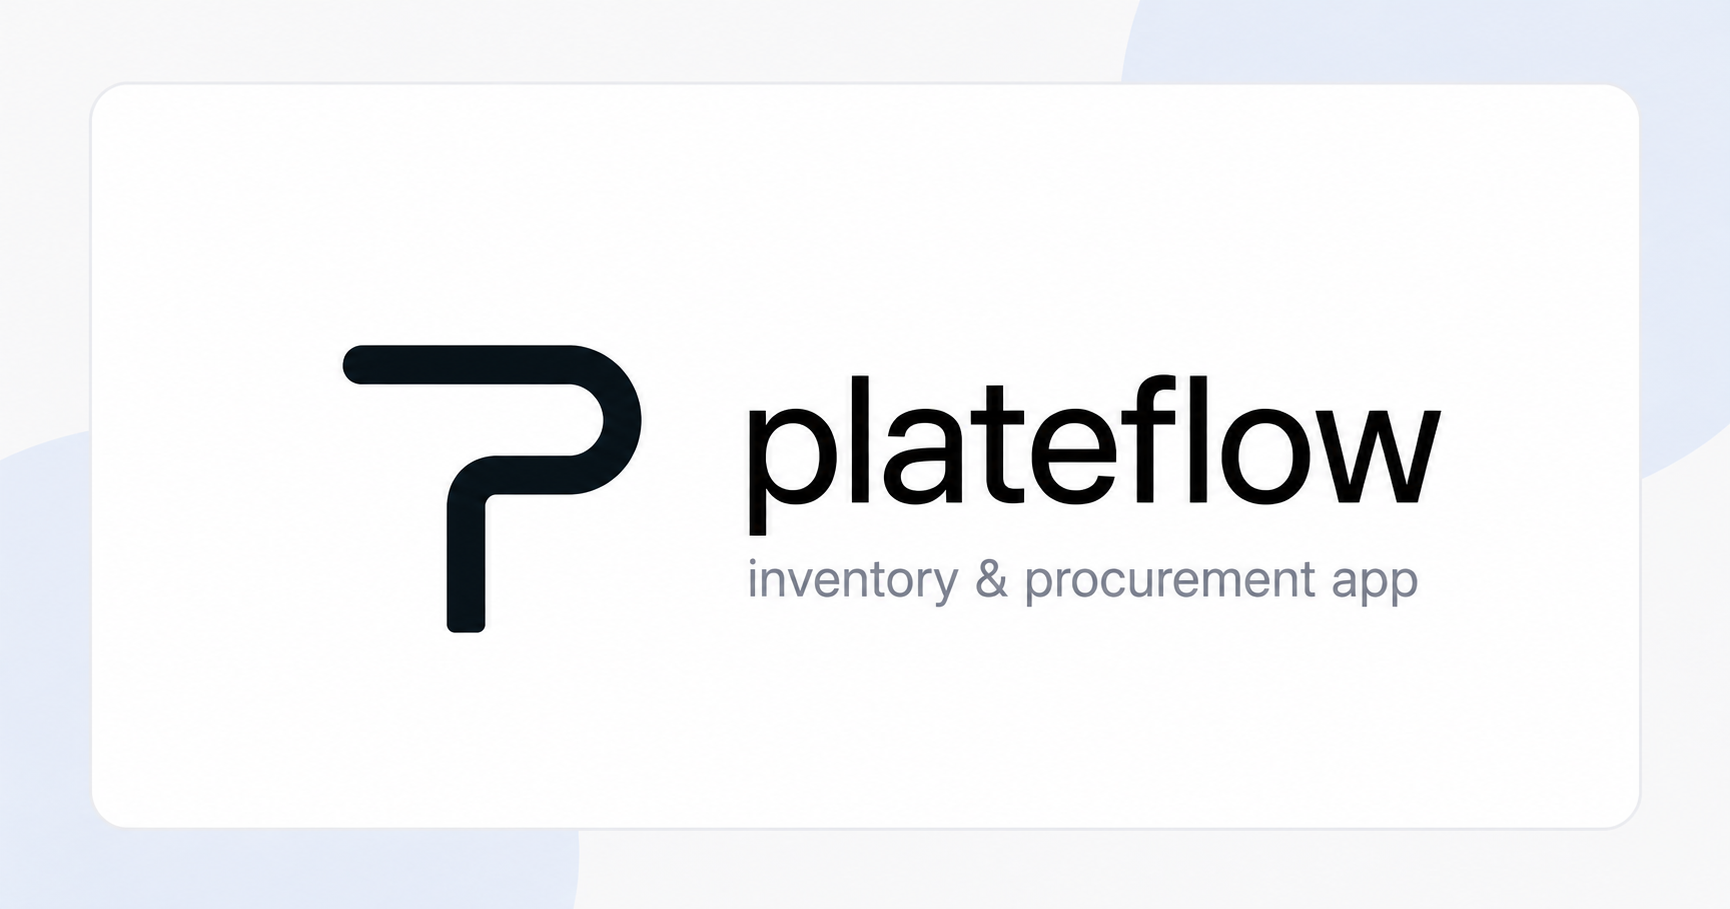
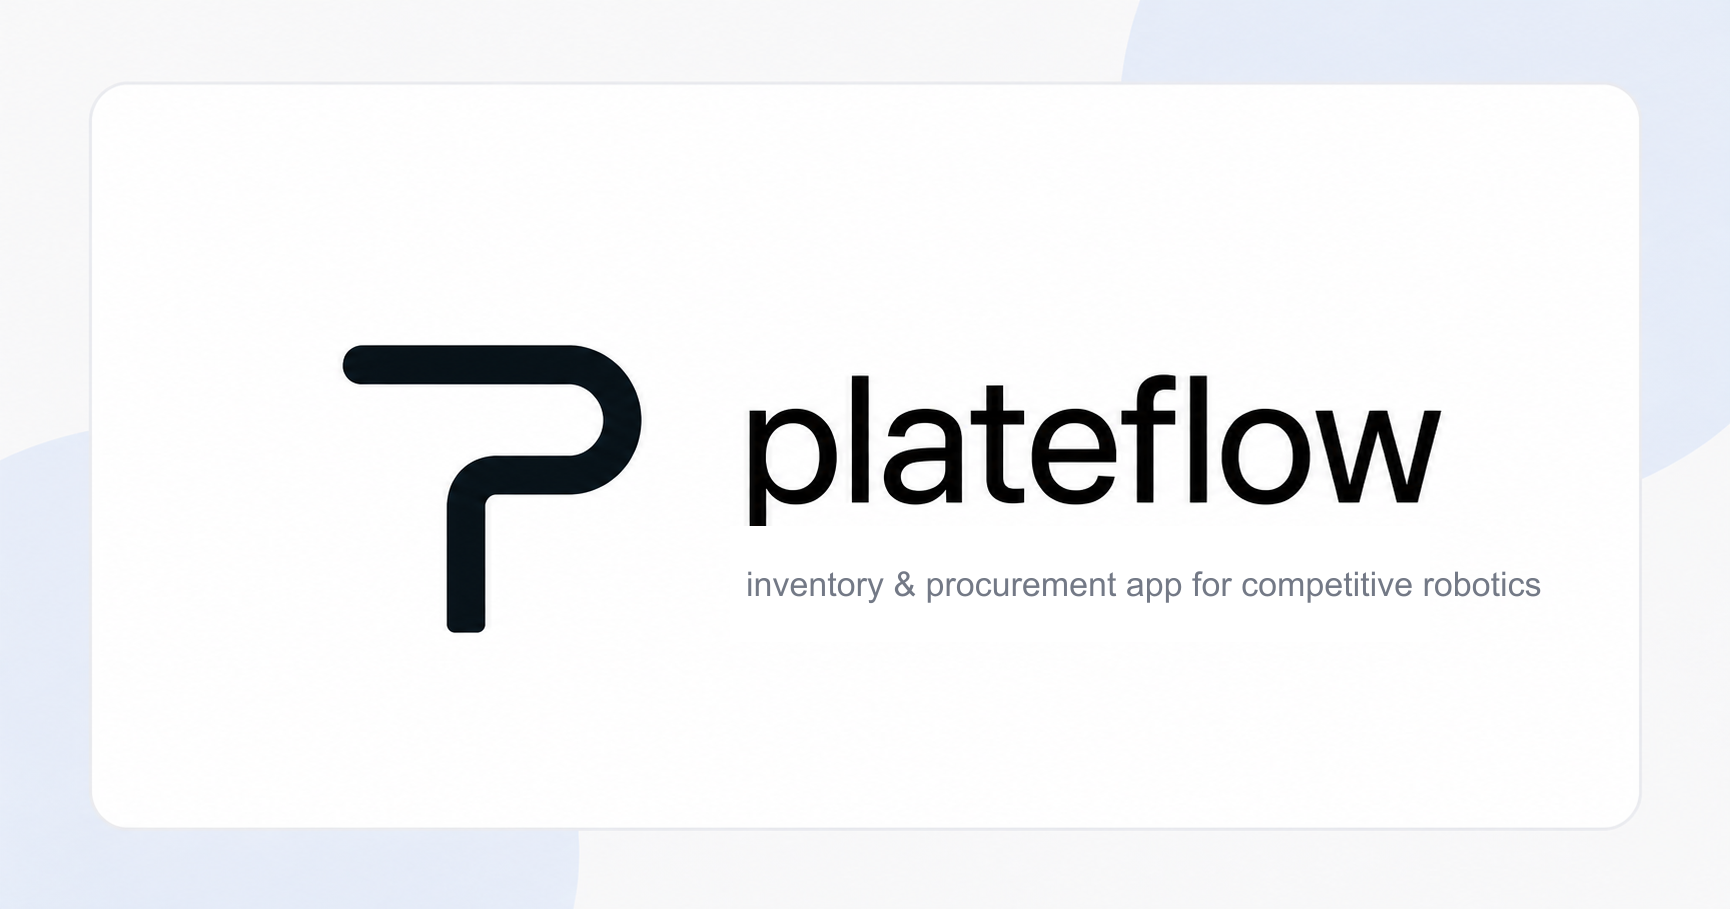
Update PlateFlow embed tagline

Changed region(s): [[0.437, 0.6161, 0.874, 0.6777]]

diff --git a/public/index.html b/public/index.html
@@ -4,7 +4,7 @@
     <meta charset="utf-8">
     <meta name="viewport" content="width=device-width, initial-scale=1">
     <title>plateflow</title>
-    <meta name="description" content="Inventory and procurement app for PlateFlow.">
+    <meta name="description" content="Inventory & procurement app for competitive robotics.">
     <meta name="theme-color" content="#2563eb">
     <link rel="canonical" href="https://plateflow.org/">
     <link rel="icon" href="/plateflow-logo.png">
@@ -13,17 +13,17 @@
     <meta property="og:type" content="website">
     <meta property="og:url" content="https://plateflow.org/">
     <meta property="og:title" content="plateflow">
-    <meta property="og:description" content="Inventory and procurement app for PlateFlow.">
-    <meta property="og:image" content="https://plateflow.org/plateflow-embed-card.png">
-    <meta property="og:image:secure_url" content="https://plateflow.org/plateflow-embed-card.png">
+    <meta property="og:description" content="Inventory & procurement app for competitive robotics.">
+    <meta property="og:image" content="https://plateflow.org/plateflow-embed-card.png?v=2">
+    <meta property="og:image:secure_url" content="https://plateflow.org/plateflow-embed-card.png?v=2">
     <meta property="og:image:type" content="image/png">
     <meta property="og:image:width" content="1730">
     <meta property="og:image:height" content="909">
-    <meta property="og:image:alt" content="plateflow inventory and procurement app logo card">
+    <meta property="og:image:alt" content="plateflow inventory and procurement app for competitive robotics logo card">
     <meta name="twitter:card" content="summary_large_image">
     <meta name="twitter:title" content="plateflow">
-    <meta name="twitter:description" content="Inventory and procurement app for PlateFlow.">
-    <meta name="twitter:image" content="https://plateflow.org/plateflow-embed-card.png">
+    <meta name="twitter:description" content="Inventory & procurement app for competitive robotics.">
+    <meta name="twitter:image" content="https://plateflow.org/plateflow-embed-card.png?v=2">
     <link rel="stylesheet" href="/styles.css?v=40">
   </head>
   <body data-theme="dark">
